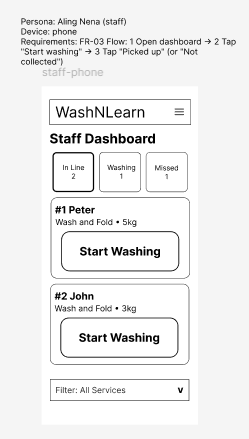
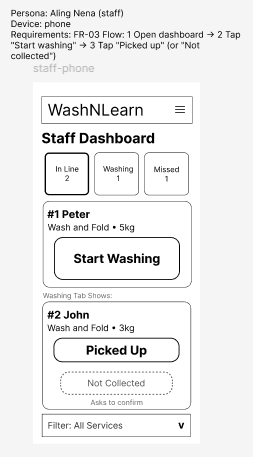
Self review of personas and wireframes + feedback

Changed region(s): [[0.1406, 0.2073, 0.7871, 0.9772], [0.0281, 0.0, 0.9558, 0.1777]]

diff --git a/docs/week3/feedback.md b/docs/week3/feedback.md
@@ -1,0 +1,19 @@
+# Self-review of personas and wireframes
+
+## Join
+
+**Works well:** On the phone, the service is three large tap tiles and "Get my ticket" is pinned at the bottom, so Jomar can finish with one thumb. On the laptop, the "How it works" panel tells a first-time customer what to expect before the form. Both follow my rule that he shouldn't need an account or extra steps.
+**Problem:** Jomar may not know how many kilos his laundry weighs before the shop weighs it, so he could guess wrong or get stuck on that field. This is a mismatch with the real world, because at a laundry shop the staff weigh the laundry, not the customer.
+**Change:** Rename the field "Kilos (estimate)" and add a hint underneath: "Staff will confirm the weight at the counter." I will also show the allowed range (1 to 15) so he can't enter something invalid, which helps with error prevention.
+
+## My place
+
+**Works well:** The ticket number and "loads ahead" are the largest things at the top on both frames, and the tracker (In line, Washing now, Picked up) shows where the laundry is without any reading. This follows my rule that Jomar must see his place first and gives visibility of status.
+**Problem:** The page says "Updates automatically" but never shows when it last updated, so Jomar can't tell whether the number is current or the connection is stuck. That breaks visibility of status.
+**Change:** Add "Last updated: (Time)" to the note on both frames. Use the same words on every screen: In line, Washing now, Picked up, Not collected.
+
+## Staff dashboard
+
+**Works well:** The loads are sorted by status (three columns on the laptop, three tabs on the phone), with the next load first and a large "Start washing" button as the first action. This follows my rule for Aling Nena that the most frequent action must be easy to reach with wet or busy hands.
+**Problem:** "Picked up" and "Not collected" sit next to each other at the same size, so she could tap "Not collected" by accident, and nothing lets her undo it. That is an error prevention problem.
+**Change:** Put more space between the two buttons, make "Not collected" look secondary, and ask for confirmation before it applies. Keep the counts on the tabs so she can see at a glance that loads are waiting in another tab. 
